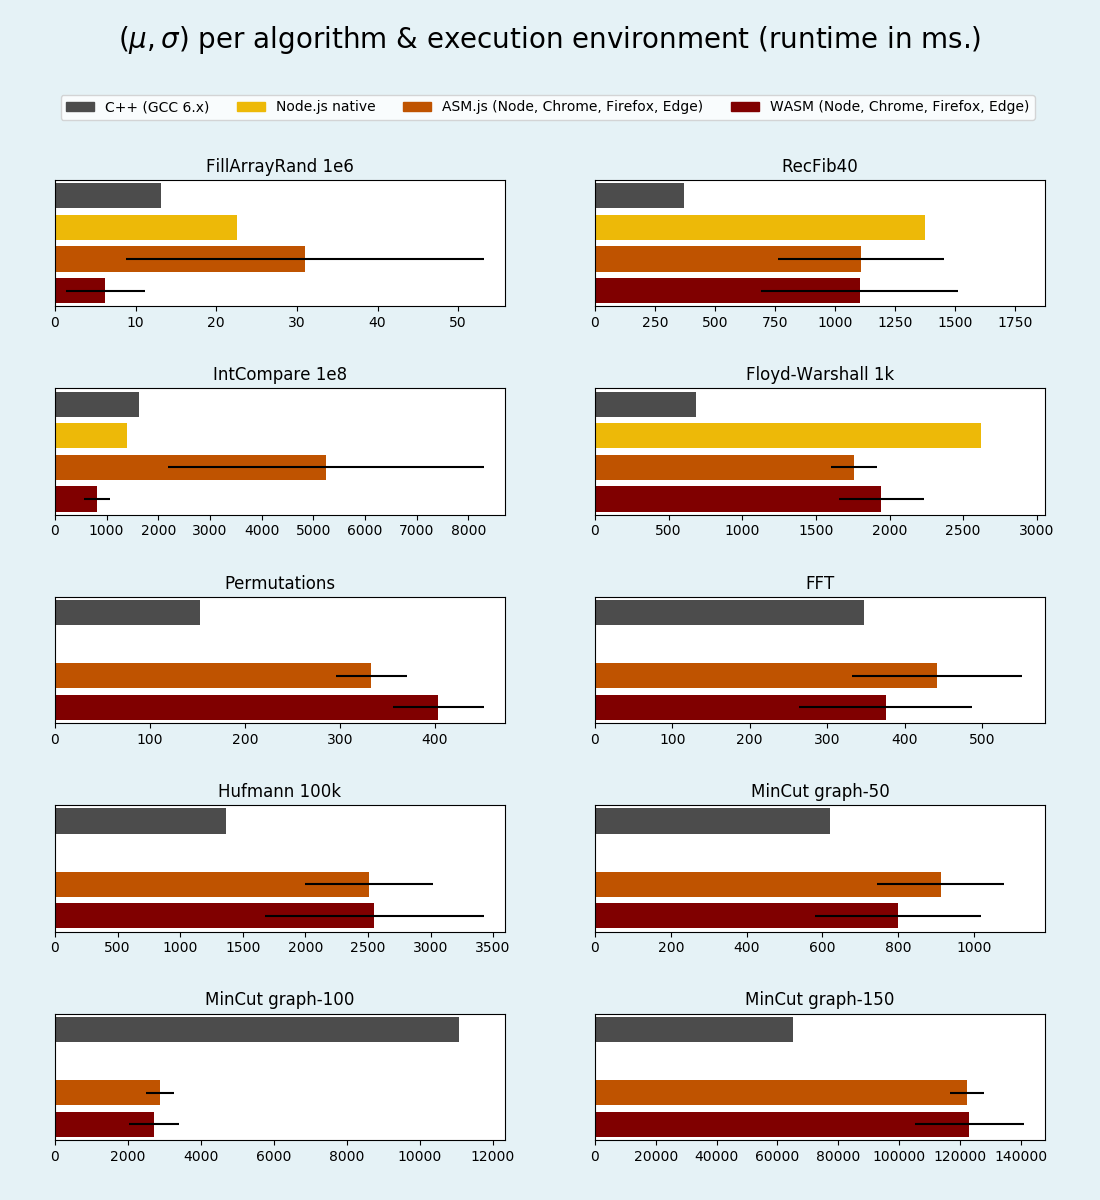
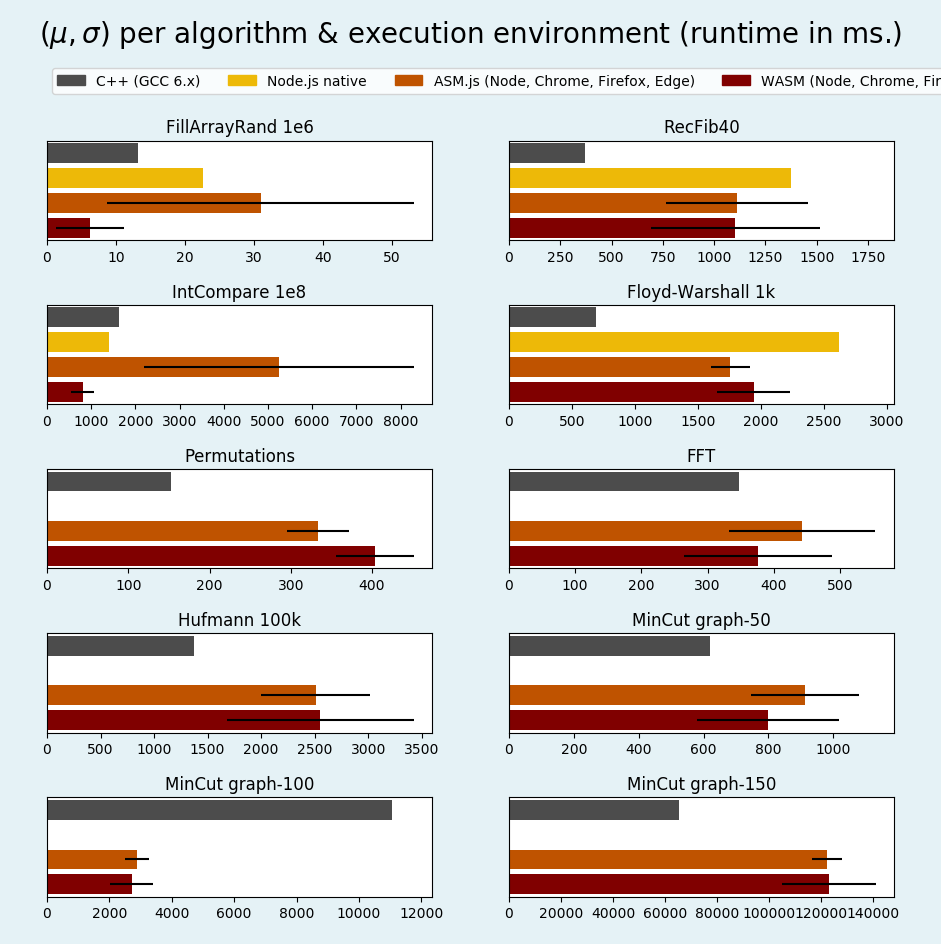
added floyd-warshal for dicts, doesnt optimize like arrays...

diff --git a/floyd-warshall/fw_dict.js b/floyd-warshall/fw_dict.js
@@ -1,0 +1,49 @@
+const V = 1034;
+
+// Graph instantiation
+let time_start = +new Date;
+
+let graph = {}
+for (i = 0; i < V; ++i) {
+  graph[i] = {};
+  for (j = 0; j < V; ++j) {
+    graph[i][j] = i == j ? 0 : parseFloat(Math.random() * 9 + 1);
+  }
+}
+
+let time_graph = +new Date;
+console.log(`Graph instantiation took ${time_graph - time_start} ms.`);
+
+
+// FWDenseDict(graph);
+FWDenseKeys(graph);
+let time_floyd_dense = +new Date;
+console.log(`DENSE Floyd-Warshall took ${time_floyd_dense - time_graph} ms.`);
+
+
+
+function FWDenseDict(graph) {
+  for (k in graph) {
+    for (i in graph) {
+      for (j in graph) {
+        if (graph[i][j] > graph[i][k] + graph[k][j]) {
+          graph[i][j] = graph[i][k] + graph[k][j];
+        }
+      }
+    }
+  }
+}
+
+
+function FWDenseKeys(graph) {
+  var keys = Object.keys(graph);
+  for (k = 0; k < keys.length; ++k) {
+    for (i = 0; i < keys.length; ++i) {
+      for (j = 0; j < keys.length; ++j) {
+        if (graph[keys[i]][keys[j]] > graph[keys[i]][keys[k]] + graph[keys[k]][keys[j]]) {
+          graph[keys[i]][keys[j]] = graph[keys[i]][keys[k]] + graph[keys[k]][keys[j]];
+        }
+      }
+    }
+  }
+}

diff --git a/floyd-warshall/fw.js b/floyd-warshall/fw.js
@@ -11,8 +11,8 @@ for (i = 0; i < V; ++i) {
   }
 }
 
-// let time_graph = +new Date;
-// console.log(`Graph instantiation took ${time_graph - time_start} ms.`);
+let time_graph = +new Date;
+console.log(`Graph instantiation took ${time_graph - time_start} ms.`);
 
 // FWDense(graph);
 // let time_floyd_dense = +new Date;
@@ -25,7 +25,7 @@ for (i = 0; i < V; ++i) {
 
 let time_10_fold_start = +new Date;
 for (let i = 0; i < 10; ++i) {
-  FWDense(graph);
+  FWSparse(graph);
   console.log(`Completed FWDense iteration ${i}`);
 }
 let time_10_fold_mean = (+new Date - time_10_fold_start) / 10;

diff --git a/stats/plots/one_plot_per_algo.py b/stats/plots/one_plot_per_algo.py
@@ -7,7 +7,7 @@ import math
 OUTPUT_DIR = 'output'
 FILE_NAME = 'all_subplots_'
 FILE_FORMAT = '.png'
-COLOR_PALETTE = 1
+COLOR_PALETTE = 0
 N = 4
 
 # Color palettes
@@ -99,5 +99,5 @@ for idx, handle in enumerate(leg.legendHandles):
     handle.set_color(colors[COLOR_PALETTE][N-idx-1])
 
 plt.subplots_adjust(top=0.85, bottom=0.05, left=0.05, right=0.95, hspace=0.65)
-# plt.show()
+plt.show()
 fig.savefig(OUTPUT_DIR + '/' + FILE_NAME + '_' + str(COLOR_PALETTE) + FILE_FORMAT, facecolor=fig.get_facecolor())
